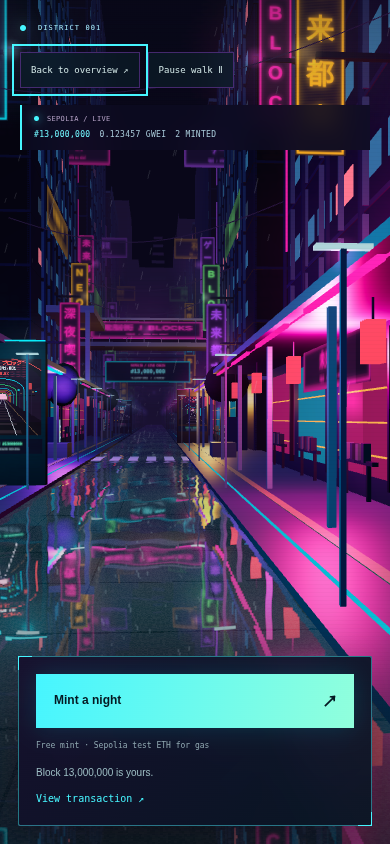
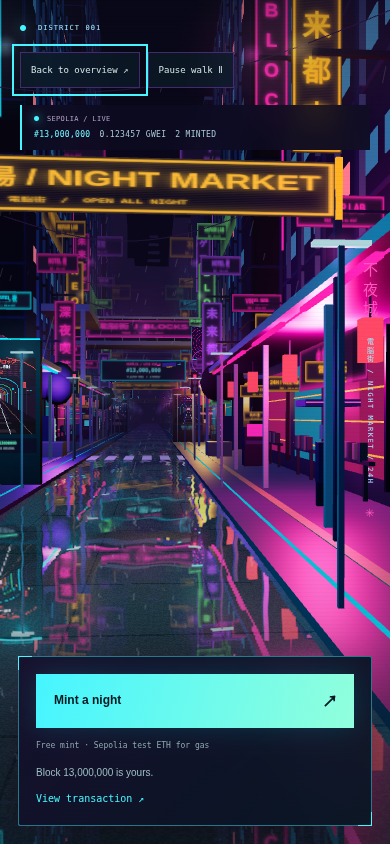
Fill the Blocks street with market gates, arcades, drones and adverts
Adds shop-level signage, awnings and AC units, a night-market gate with
junction signals, arcade cabinets, umbrella pedestrians, floating drones and
a shared procedural advert shader. A vertical district rail and market
marquee frame the walk and pause with it or under reduced motion.

diff --git a/blocks-page/dist/index.html b/blocks-page/dist/index.html
@@ -7,6 +7,7 @@
 <aside class="chain-hud" aria-label="Ethereum Sepolia chain state"><div><span class="chain-dot"></span><span id="chain-status">SEPOLIA / CONNECTING</span></div><span id="chain-head">Awaiting chain feed</span><span id="chain-fee">— GWEI</span><span id="chain-supply">— MINTED</span></aside>
 <div class="hero-copy"><p class="eyebrow">ONE BLOCK. ONE CITY. YOURS.</p><h1 id="title">After the<br><em>last train.</em></h1><p class="intro">Take the long way home.<br>Keep one moment of it, forever.</p><button id="explore" class="explore" aria-pressed="false">Walk the street <span>→</span></button></div>
 <div class="mint-panel"><div class="panel-heading"><span class="signal"></span><span>YOUR NEXT STOP</span><span class="panel-number">01 / 01</span></div><h2>A night of your own.</h2><p>One Ethereum block.<br>Your own six-second pixel city.</p><button id="mint" class="primary" disabled>Loading… <span>↗</span></button><p class="mint-note">Free mint · Sepolia test ETH for gas</p><p id="status" class="status" role="status" aria-live="polite">Loading mint availability…</p><a id="transaction" class="text-link" hidden target="_blank" rel="noopener">View transaction ↗</a></div>
+<div class="district-rail" aria-hidden="true">不夜城 <span>電脳街 / NIGHT MARKET / 24H</span> ✳</div><div class="street-marquee" aria-hidden="true"><span>深夜営業 ✦ NIGHT MARKET ↗ ✦ ONCHAIN GALLERY ✦ ARCADE 24 ✦ THE LAST TRAIN HAS LEFT ✦ 深夜営業 ✦ NIGHT MARKET ↗ ✦ ONCHAIN GALLERY ✦ ARCADE 24 ✦ THE LAST TRAIN HAS LEFT ✦ </span></div>
 <div class="scene-controls"><span class="walk-hint">WEBSITE NIGHT WALK · MOVE TO LOOK AROUND</span><button id="leave-street" hidden>Back to overview ↗</button><button id="motion" aria-pressed="false">Pause walk Ⅱ</button></div><a href="#collection" class="scroll-cue">EIGHT WORLDS ARE WAITING <span>↓</span></a></section>
 <div class="ticker" aria-hidden="true"><span>ONE BLOCK</span><i>✦</i><span>SIX SECONDS</span><i>✦</i><span>EIGHT POSSIBLE NIGHTS</span><i>✦</i><span>ENTIRELY ONCHAIN</span><i>✦</i><span>ONE BLOCK</span></div>
 <section id="collection" class="collection"><div class="section-heading"><p class="eyebrow">01 / THE COLLECTION</p><h2>Somewhere,<br><em>after midnight.</em></h2><p>A canyon of neon. The last train home.<br>Or the quiet on the other side of the city.</p></div><div class="art-layout"><figure class="art-frame"><div class="frame-top"><span id="art-label">SCENE STUDY</span><span>128 × 128 / 15 FPS</span></div><img id="hero" src="assets/alley.gif" alt="Single-block ALLEY scene study"><figcaption id="caption">ALLEY · Six-second loop</figcaption></figure><div class="art-info"><span class="edition-tag" id="edition">ONCHAIN ANIMATION</span><h3 id="art-name">Alley.</h3><p id="art-description">The original artwork, drawn by the contract. Each block brings its own light, rhythm and detail.</p><div id="scenes" class="scene-picker" aria-label="Explore the eight scenes"></div><a id="download" class="download" href="assets/alley.gif" download="blocks-study.gif">Download original GIF <span>↓</span></a><details><summary>Look up a minted block <span>+</span></summary><form id="lookup"><label for="view-block">Block number</label><div class="lookup-row"><input id="view-block" type="text" inputmode="numeric" pattern="[0-9]+" placeholder="e.g. 13000000" required><button id="view" type="submit">View ↗</button></div></form></details><p id="read-status" class="status" role="status" aria-live="polite"></p><details><summary>Block details <span>+</span></summary><dl id="traits" class="traits"></dl></details></div></div></section>

diff --git a/blocks-page/dist/style.css b/blocks-page/dist/style.css
@@ -47,3 +47,9 @@ h1 em{color:#ff75d0;text-shadow:0 0 28px #ff20ad55,0 0 80px #bf25ff30}
 .chain-hud{position:absolute;top:154px;right:5%;display:flex;flex-wrap:wrap;gap:7px 14px;max-width:270px;padding:12px 15px;border-left:2px solid #745681;background:#0c0b20d9;backdrop-filter:blur(12px);color:#a7c9d8;font:9px/1.5 monospace;letter-spacing:.04em;pointer-events:none}.chain-hud>div{width:100%;font-size:8px;color:#b6a3c8}.chain-dot{display:inline-block;width:5px;height:5px;background:#a88dba;border-radius:50%;margin-right:8px}.chain-hud[data-status=live]{border-color:#46f5ff}.chain-hud[data-status=live] .chain-dot{background:#46f5ff;box-shadow:0 0 10px #46f5ff}.chain-hud[data-status=offline],.chain-hud[data-status=stale]{border-color:#ffb51b}.chain-hud[data-status=offline] .chain-dot,.chain-hud[data-status=stale] .chain-dot{background:#ffb51b}#chain-head{color:#70f7ff}body.exploring .chain-hud{left:32px;right:auto;top:61px;max-width:none;padding:9px 12px}body.exploring .chain-hud>div{width:auto;margin-right:5px}
 @media(max-width:700px){.chain-hud{top:125px;left:6%;right:6%;max-width:none;gap:5px 10px;font-size:8px;padding:6px 9px}.chain-hud>div{width:auto;font-size:7px}.hero-copy{top:177px}h1{font-size:60px}.hero-copy .eyebrow{margin-bottom:16px}.explore{margin-top:15px}.intro{line-height:1.5}body.exploring .chain-hud{top:105px;left:20px;right:20px;font-size:8px;gap:4px 9px}body.exploring .chain-hud>div{width:100%}}
 @media(max-width:370px){.chain-hud{gap:4px 7px;font-size:7px}.chain-hud>div{font-size:6px}.hero-copy{top:174px}h1{font-size:51px}.hero-copy .eyebrow{margin-bottom:13px}}
+
+/* Street furniture continues into the district's broadcast graphics. */
+.district-rail{position:absolute;right:17px;top:31%;writing-mode:vertical-rl;display:flex;align-items:center;gap:18px;color:#ff57be;font:19px monospace;letter-spacing:.3em;text-shadow:0 0 14px #ff23b980;pointer-events:none}.district-rail span{font-size:8px;letter-spacing:.22em;color:#9eebff}.street-marquee{position:absolute;left:5%;bottom:92px;width:390px;overflow:hidden;border-block:1px solid #ff48bb55;padding:9px 0;background:#160b25b8;pointer-events:none;color:#ffc85b;font:9px monospace;letter-spacing:.1em;mask-image:linear-gradient(90deg,transparent,#000 4%,#000 96%,transparent)}.street-marquee span{display:block;width:max-content;white-space:nowrap;animation:market-broadcast 35s linear infinite}.street-marquee span::before{content:'● ';color:#ff48bb}@keyframes market-broadcast{to{transform:translateX(-50%)}}body[data-walk-paused=true] .street-marquee span{animation-play-state:paused}body.exploring .street-marquee{left:32px;bottom:31px;width:min(42vw,480px)}body.exploring .district-rail{right:17px;top:30%}
+@media(max-width:1000px){.street-marquee{width:260px;font-size:8px}}
+@media(max-width:700px){.district-rail,.street-marquee{display:none}body.exploring .district-rail{display:flex;top:31%;right:10px;font-size:15px}body.exploring .district-rail span{font-size:7px}}
+@media(prefers-reduced-motion:reduce){.street-marquee span{animation:none}}

diff --git a/blocks-page/README.md b/blocks-page/README.md
@@ -14,7 +14,11 @@ exact creation and runtime matches. The prior epoch prototype remains separate.
 
 The Three.js scene is a Tokyo-inspired modernist night walk at 1.72m eye height.
 Eight street segments recycle behind the walker: glass and concrete facades,
-covered pavements, lit shops, trees, vending machines and overhead bridges.
+covered pavements, stacked neon shop signs, trees, vending machines and overhead
+bridges. Market gates, arcade cabinets, junction signals, umbrella silhouettes,
+floating delivery drones and procedural animated adverts fill out the street.
+A district rail and scrolling market ticker frame the walk; the motion control
+and reduced-motion preference stop these alongside the scene.
 A low-resolution planar reflection pass gives the wet pavement actual reflections
 of the buildings; rain, a passing train and gentle head movement add motion.
 
